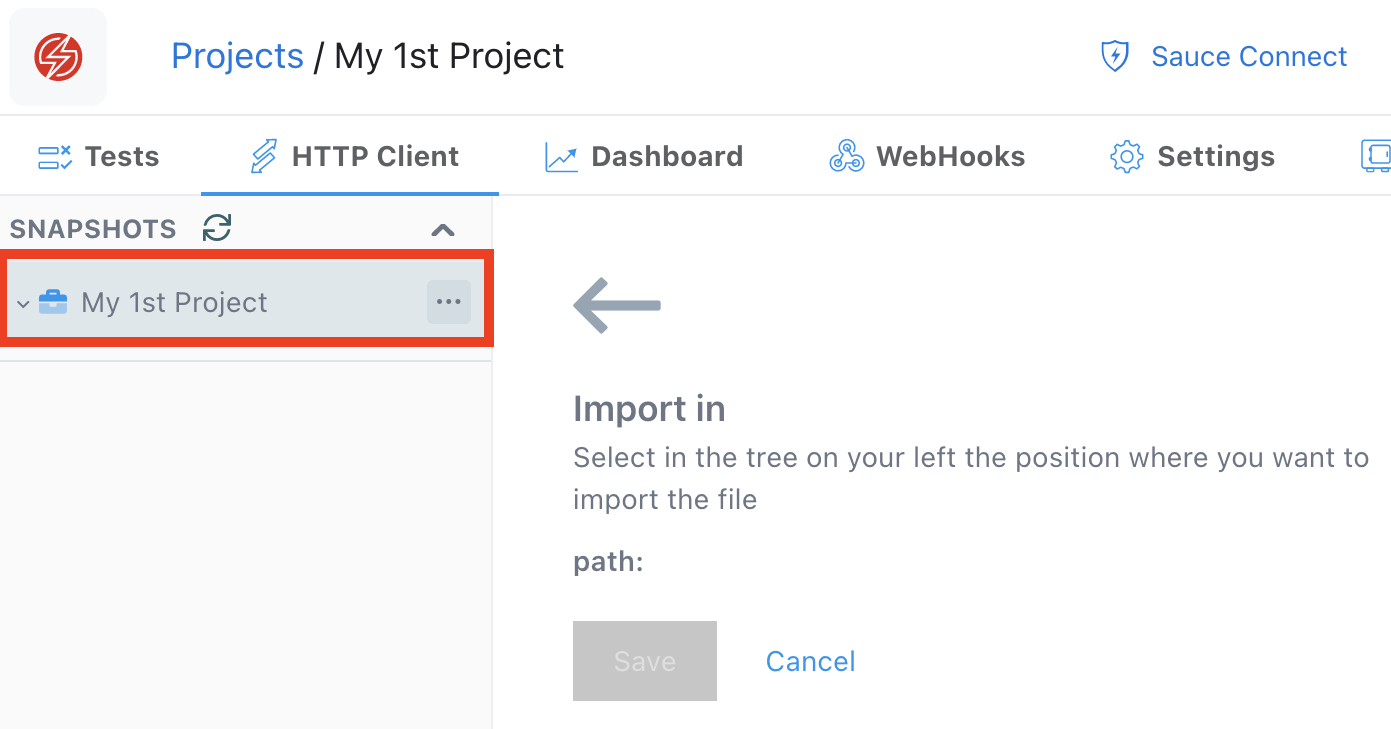
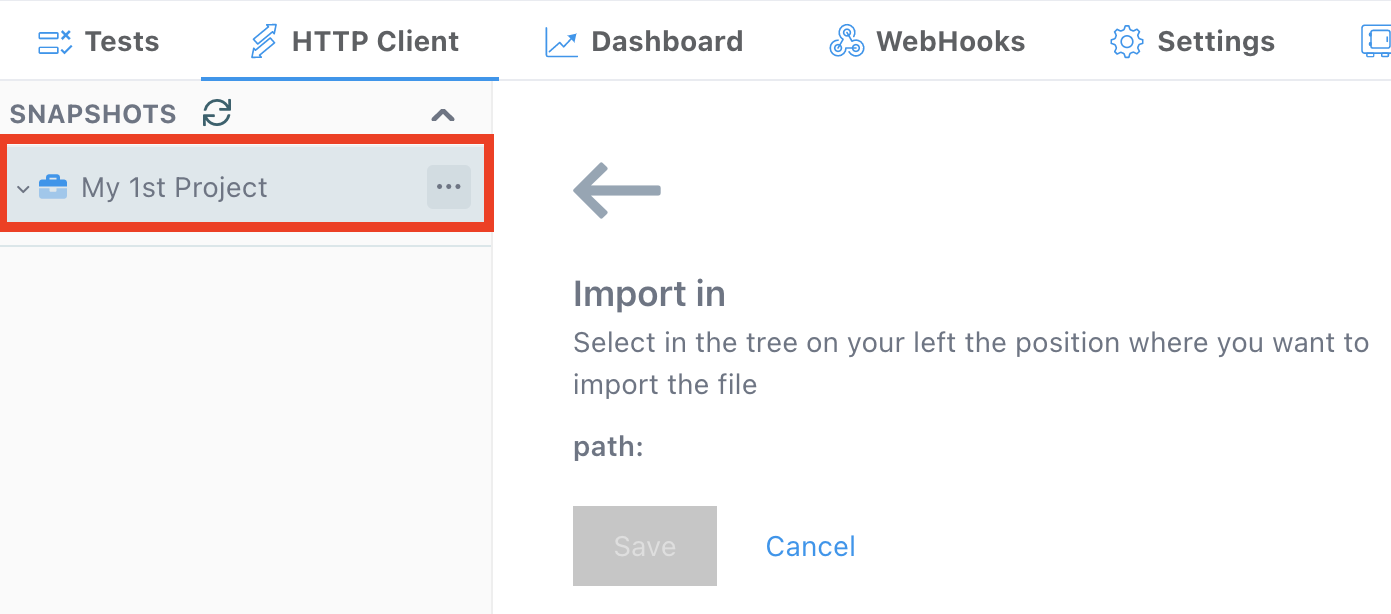
Build from Spec, Postman

diff --git a/docs/api-testing/importing-postman-collections.md b/docs/api-testing/importing-postman-collections.md
@@ -21,8 +21,8 @@ If you have a [Postman API Collection](https://www.postman.com/collection/), you
 1. Log in to Sauce Labs, then click **API TESTING** > **Get Started**.<br/>
   <img src={useBaseUrl('img/api-fortress/2021/09/landingPage.png')} alt="API Testing landing page" width="500" />
 2. Click to open one of your Projects.
-3. Click the __HTTP Client__ tab.
-4. Click the **Import OpenAPI / Postman** button, then select and upload your Postman Collection file from your local machine.<br/><img src={useBaseUrl('img/api-fortress/2021/01/importSpec.png')} alt="Import OpenAPI / Postman button" width="200"/>
+3. Click the __HTTP Client__ tab.<br/><img src={useBaseUrl('img/api-fortress/2021/01/HTTPClient.png')} alt="HTTP Client" width="400" />
+4. Click the **Import OpenAPI / Postman** button, then select and upload your Postman Collection file from your local machine.<br/><img src={useBaseUrl('img/api-fortress/2021/01/importSpec.png')} alt="Import OpenAPI / Postman button" width="250"/>
 
 :::tip
 
@@ -95,7 +95,7 @@ If you don't have a file available, try out the sample below.
 
 5. Click the folder your **Snapshots** tree where you'd like to save your file.<br/><img src={useBaseUrl('img/api-fortress/2021/04/importFolder.png')} alt="Routes Rendered"/>
 6. Click **Save**.<br/><img src={useBaseUrl('img/api-fortress/2021/04/importFolder2.png')} alt="Import file to Project"/>
-7. The routes from your collection will then populate in the list of saved requests.<br/><img src={useBaseUrl('img/api-fortress/2021/04/routesRendered.png')} alt="Import file to Project" width="400"/>
+7. The routes from your collection will now show in the list of saved requests.<br/><img src={useBaseUrl('img/api-fortress/2021/04/routesRendered.png')} alt="Import file to Project" width="400"/>
 
 
 ## Importing Postman a Environment
@@ -112,8 +112,7 @@ Your environmental variables will now be available in the __Variables__ section 
 
 ## Importing Postman Variables
 
-1. Log in to Sauce Labs, then click **API TESTING** > **Get Started**.<br/>
-  <img src={useBaseUrl('img/api-fortress/2021/09/landingPage.png')} alt="API Testing landing page" width="500" />
+1. Log in to Sauce Labs, then click **API TESTING** > **Get Started**.<br/><img src={useBaseUrl('img/api-fortress/2021/09/landingPage.png')} alt="API Testing landing page" width="500" />
 1. Click the __Company Vault__ tab.<br/><img src={useBaseUrl('img/api-fortress/2021/04/companyVault.png')} alt="Company Vault" width="400"/>
 1. Click the **Variables** radio button.<br/><img src={useBaseUrl('img/api-fortress/2021/04/companyVault2.png')} alt="Company Vault" width="400"/>
 1. Click **Import**.

diff --git a/docs/api-testing/build-from-spec.md b/docs/api-testing/build-from-spec.md
@@ -32,7 +32,7 @@ Using the API Testing **HTTP Client**, you can generate tests from external endp
 1. Log in to Sauce Labs, then click **API TESTING** > **Get Started**.<br/>
   <img src={useBaseUrl('img/api-fortress/2021/09/landingPage.png')} alt="API Testing landing page" width="500" />
 1. Go into any Project.
-1. From within a Project, click the __HTTP Client__ tab.<br/><img src={useBaseUrl('img/api-fortress/2021/01/httpClient.png')} alt="HTTP Client Button"/>
+1. From within a Project, click the __HTTP Client__ tab.<br/><img src={useBaseUrl('img/api-fortress/2021/01/httpClient.png')} alt="HTTP Client Button" width="400"/>
 1. Click the **Import OpenAPI / Postman** button.<br/><img src={useBaseUrl('img/api-fortress/2021/01/importSpec.png')} alt="Import OpenAPI / Postman button" width="250" />
 1. Select the file on your local machine you wish to upload.
 1. Select the folder your **Snapshots** tree where you'd like to save your file.<br/><img src={useBaseUrl('img/api-fortress/2021/04/importFolder.png')} alt="Import to Snapshots folder"/>

diff --git a/docs/api-testing/quickstart.md b/docs/api-testing/quickstart.md
@@ -32,8 +32,7 @@ This page is a quickstart guide for getting up and running with API Testing on S
 
 ## Create Test
 
-4. Click **HTTP Client**.<br/>
-  <img src={useBaseUrl('img/api-fortress/2021/01/HTTPClient.png')} alt="HTTP Client" width="400" />
+4. Click **HTTP Client**.<br/><img src={useBaseUrl('img/api-fortress/2021/01/HTTPClient.png')} alt="HTTP Client" width="400" />
 
 5. Choose from _one_ of the below methods:
 
